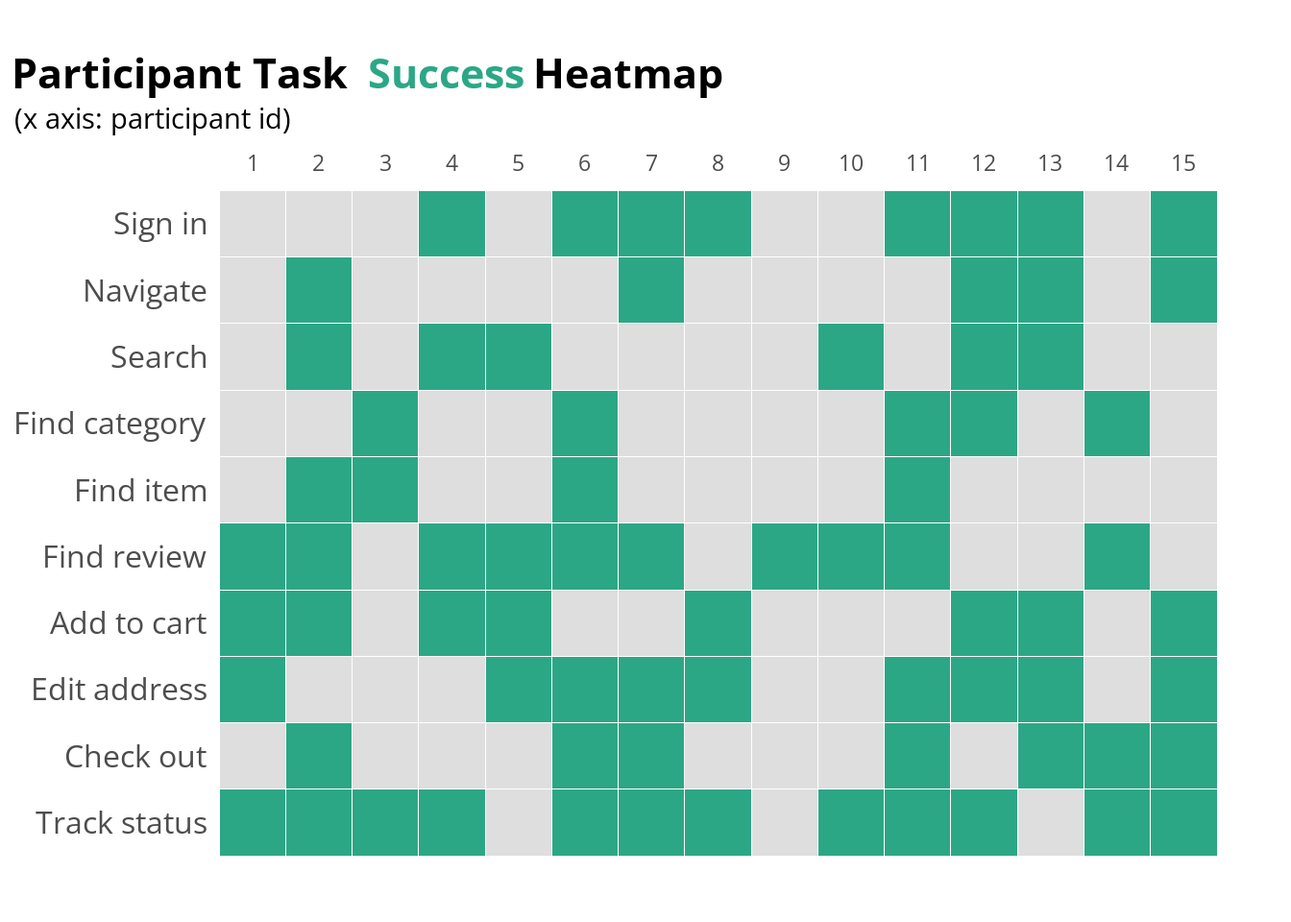
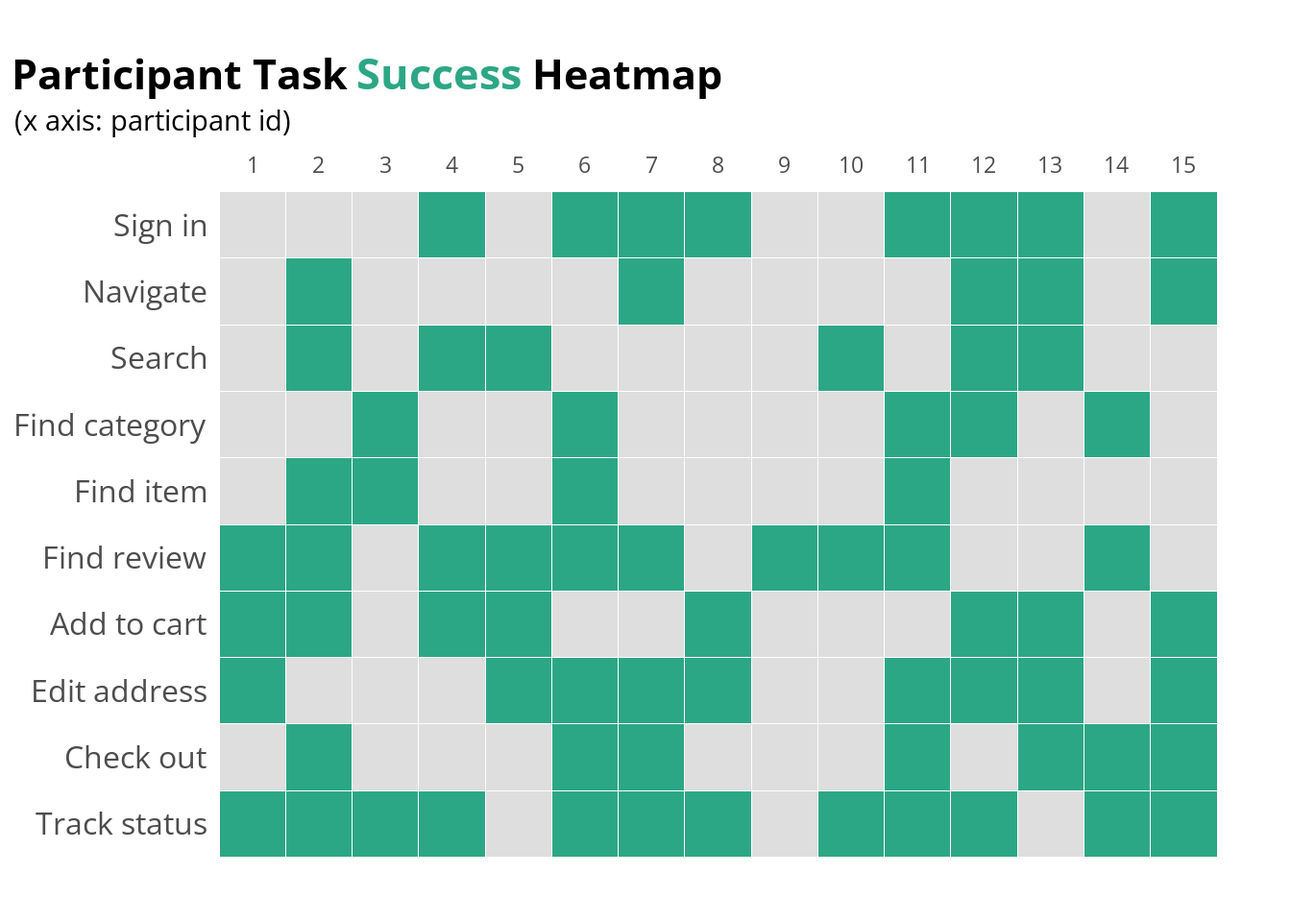
Built site for gh-pages

diff --git a/garden/ux/task-success-heatmap.html b/garden/ux/task-success-heatmap.html
@@ -216,7 +216,7 @@ pre > code.sourceCode > span > a:first-child::before { text-decoration: underlin
 <span id="cb2-34"><a href="#cb2-34" aria-hidden="true" tabindex="-1"></a>  <span class="fu">scale_x_discrete</span>(<span class="at">expand =</span> <span class="fu">expansion</span>(<span class="at">mult =</span> <span class="fu">c</span>(<span class="dv">0</span>, .<span class="dv">1</span>)), <span class="at">position =</span> <span class="st">"top"</span>) <span class="sc">+</span></span>
 <span id="cb2-35"><a href="#cb2-35" aria-hidden="true" tabindex="-1"></a>  <span class="fu">coord_fixed</span>(<span class="at">ratio=</span><span class="dv">1</span>) <span class="sc">+</span></span>
 <span id="cb2-36"><a href="#cb2-36" aria-hidden="true" tabindex="-1"></a>  <span class="fu">labs</span>(<span class="at">x =</span> <span class="cn">NULL</span>, <span class="at">y =</span> <span class="cn">NULL</span>, <span class="at">fill =</span> <span class="st">"Value"</span>,</span>
-<span id="cb2-37"><a href="#cb2-37" aria-hidden="true" tabindex="-1"></a>       <span class="at">title =</span> <span class="st">"&lt;b&gt;Participant Task &lt;span style = 'color: #2ca786;'&gt; Success&lt;/span&gt; Heatmap&lt;/b&gt;"</span>,</span>
+<span id="cb2-37"><a href="#cb2-37" aria-hidden="true" tabindex="-1"></a>       <span class="at">title =</span> <span class="st">"&lt;b&gt;Participant Task &lt;span style = 'color: #2ca786; font-size: 17pt'&gt;Success&lt;/span&gt; Heatmap&lt;/b&gt;"</span>,</span>
 <span id="cb2-38"><a href="#cb2-38" aria-hidden="true" tabindex="-1"></a>       <span class="at">subtitle =</span> <span class="st">"(x axis: participant id)"</span>) <span class="sc">+</span></span>
 <span id="cb2-39"><a href="#cb2-39" aria-hidden="true" tabindex="-1"></a>  <span class="fu">theme</span>(<span class="at">plot.title.position =</span> <span class="st">"plot"</span>,</span>
 <span id="cb2-40"><a href="#cb2-40" aria-hidden="true" tabindex="-1"></a>        <span class="at">plot.title =</span> <span class="fu">element_textbox_simple</span>(<span class="at">size =</span> <span class="dv">16</span>, <span class="at">lineheight =</span> <span class="dv">1</span>,</span>
@@ -231,32 +231,57 @@ pre > code.sourceCode > span > a:first-child::before { text-decoration: underlin
 </div>
 </div>
 <div class="cell">
-<div class="sourceCode cell-code" id="cb3"><pre class="sourceCode r code-with-copy"><code class="sourceCode r"><span id="cb3-1"><a href="#cb3-1" aria-hidden="true" tabindex="-1"></a>result <span class="ot">&lt;-</span> purrr<span class="sc">::</span><span class="fu">map_dfr</span>(<span class="fu">c</span>(<span class="dv">8</span>, <span class="dv">5</span>, <span class="dv">3</span>, <span class="dv">4</span>, <span class="dv">2</span>, <span class="dv">9</span>, <span class="dv">6</span>, <span class="dv">2</span>, <span class="dv">5</span>, <span class="dv">8</span>), <span class="cf">function</span>(count) <span class="fu">benchmark_event</span>(<span class="at">benchmark =</span> <span class="fl">0.75</span>, <span class="at">count =</span> count, <span class="at">total =</span> <span class="dv">10</span>, <span class="at">input =</span> <span class="st">"values"</span>, <span class="at">output =</span> <span class="st">"tibble"</span>))</span>
-<span id="cb3-2"><a href="#cb3-2" aria-hidden="true" tabindex="-1"></a></span>
-<span id="cb3-3"><a href="#cb3-3" aria-hidden="true" tabindex="-1"></a>result_df <span class="ot">&lt;-</span> result <span class="sc">|&gt;</span> <span class="fu">select</span>(count, total, benchmark, result) <span class="sc">|&gt;</span> </span>
-<span id="cb3-4"><a href="#cb3-4" aria-hidden="true" tabindex="-1"></a>  <span class="fu">mutate</span>(<span class="at">result =</span> <span class="fu">round</span>(result, <span class="dv">2</span>)) <span class="sc">|&gt;</span> <span class="fu">mutate</span>(<span class="at">result =</span> result<span class="sc">*</span><span class="dv">100</span>) <span class="sc">|&gt;</span> </span>
-<span id="cb3-5"><a href="#cb3-5" aria-hidden="true" tabindex="-1"></a>  <span class="fu">mutate</span>(<span class="at">result_percent =</span> scales<span class="sc">::</span><span class="fu">percent</span>(result))</span>
-<span id="cb3-6"><a href="#cb3-6" aria-hidden="true" tabindex="-1"></a></span>
-<span id="cb3-7"><a href="#cb3-7" aria-hidden="true" tabindex="-1"></a>result_df <span class="ot">&lt;-</span> result_df <span class="sc">|&gt;</span> tibble<span class="sc">::</span><span class="fu">rowid_to_column</span>(<span class="st">"task"</span>) <span class="sc">|&gt;</span> </span>
-<span id="cb3-8"><a href="#cb3-8" aria-hidden="true" tabindex="-1"></a>  <span class="fu">mutate</span>(<span class="at">task =</span> <span class="fu">fct_inorder</span>(<span class="fu">factor</span>(task))) </span>
-<span id="cb3-9"><a href="#cb3-9" aria-hidden="true" tabindex="-1"></a></span>
-<span id="cb3-10"><a href="#cb3-10" aria-hidden="true" tabindex="-1"></a>result_df <span class="sc">|&gt;</span> </span>
-<span id="cb3-11"><a href="#cb3-11" aria-hidden="true" tabindex="-1"></a>  <span class="fu">ggplot</span>(<span class="fu">aes</span>(<span class="at">x =</span> result, <span class="at">y =</span> <span class="fu">factor</span>(task))) <span class="sc">+</span></span>
-<span id="cb3-12"><a href="#cb3-12" aria-hidden="true" tabindex="-1"></a>  <span class="fu">geom_bar</span>(<span class="at">stat =</span> <span class="st">"identity"</span>, <span class="at">fill =</span> <span class="st">"steelblue"</span>) <span class="sc">+</span></span>
-<span id="cb3-13"><a href="#cb3-13" aria-hidden="true" tabindex="-1"></a>  <span class="fu">scale_x_continuous</span>(<span class="at">position =</span> <span class="st">"top"</span>, <span class="at">expand =</span> <span class="fu">expansion</span>(<span class="at">mult =</span> <span class="fu">c</span>(<span class="dv">0</span>, .<span class="dv">1</span>))) <span class="sc">+</span></span>
-<span id="cb3-14"><a href="#cb3-14" aria-hidden="true" tabindex="-1"></a>  <span class="fu">scale_y_discrete</span>(<span class="at">limits =</span> <span class="fu">rev</span>(<span class="fu">levels</span>(result_df<span class="sc">$</span>task))) <span class="sc">+</span></span>
-<span id="cb3-15"><a href="#cb3-15" aria-hidden="true" tabindex="-1"></a>  <span class="fu">theme</span>(<span class="at">axis.ticks.y =</span> <span class="fu">element_blank</span>(),</span>
-<span id="cb3-16"><a href="#cb3-16" aria-hidden="true" tabindex="-1"></a>        <span class="at">axis.ticks.x =</span> <span class="fu">element_line</span>(<span class="at">color =</span> <span class="st">"grey"</span>)) <span class="sc">+</span></span>
-<span id="cb3-17"><a href="#cb3-17" aria-hidden="true" tabindex="-1"></a>  <span class="fu">labs</span>(<span class="at">title =</span> <span class="st">"Probability (%) that the task success rate will exceed the benchmark"</span>,</span>
-<span id="cb3-18"><a href="#cb3-18" aria-hidden="true" tabindex="-1"></a>       <span class="at">x =</span> <span class="cn">NULL</span>,</span>
-<span id="cb3-19"><a href="#cb3-19" aria-hidden="true" tabindex="-1"></a>       <span class="at">y =</span> <span class="cn">NULL</span>) <span class="sc">+</span></span>
-<span id="cb3-20"><a href="#cb3-20" aria-hidden="true" tabindex="-1"></a>  <span class="fu">geom_text</span>(<span class="at">data =</span> result_df, </span>
-<span id="cb3-21"><a href="#cb3-21" aria-hidden="true" tabindex="-1"></a>            <span class="fu">aes</span>(<span class="at">label =</span> <span class="fu">ifelse</span>(result <span class="sc">==</span> <span class="dv">0</span>, <span class="st">"0"</span>, result), </span>
-<span id="cb3-22"><a href="#cb3-22" aria-hidden="true" tabindex="-1"></a>                <span class="at">hjust =</span> <span class="fu">ifelse</span>(result <span class="sc">==</span> <span class="dv">0</span>, <span class="sc">-</span><span class="fl">0.25</span>, <span class="fl">1.25</span>)), </span>
-<span id="cb3-23"><a href="#cb3-23" aria-hidden="true" tabindex="-1"></a>            <span class="at">color =</span> <span class="fu">with</span>(result_df, <span class="fu">ifelse</span>(result <span class="sc">==</span> <span class="dv">0</span>, <span class="st">"darkgrey"</span>, <span class="st">"white"</span>)), </span>
-<span id="cb3-24"><a href="#cb3-24" aria-hidden="true" tabindex="-1"></a>            <span class="at">size =</span> <span class="dv">5</span>)</span></code><button title="Copy to Clipboard" class="code-copy-button"><i class="bi"></i></button></pre></div>
+<div class="sourceCode cell-code" id="cb3"><pre class="sourceCode r code-with-copy"><code class="sourceCode r"><span id="cb3-1"><a href="#cb3-1" aria-hidden="true" tabindex="-1"></a><span class="fu">ggplot</span>(data_long, <span class="fu">aes</span>(<span class="at">x =</span> <span class="fu">factor</span>(participant), <span class="at">y =</span> action, <span class="at">fill =</span> <span class="fu">as.factor</span>(value))) <span class="sc">+</span></span>
+<span id="cb3-2"><a href="#cb3-2" aria-hidden="true" tabindex="-1"></a>  <span class="fu">geom_tile</span>(<span class="at">color =</span> <span class="st">"white"</span>) <span class="sc">+</span></span>
+<span id="cb3-3"><a href="#cb3-3" aria-hidden="true" tabindex="-1"></a>  <span class="fu">scale_fill_manual</span>(<span class="at">values =</span> <span class="fu">c</span>(<span class="st">"#BC412B"</span>, <span class="st">"#dedede"</span>)) <span class="sc">+</span></span>
+<span id="cb3-4"><a href="#cb3-4" aria-hidden="true" tabindex="-1"></a>  <span class="fu">theme</span>(<span class="at">panel.grid.minor =</span> <span class="fu">element_blank</span>(),</span>
+<span id="cb3-5"><a href="#cb3-5" aria-hidden="true" tabindex="-1"></a>        <span class="at">panel.grid.major =</span> <span class="fu">element_blank</span>(),</span>
+<span id="cb3-6"><a href="#cb3-6" aria-hidden="true" tabindex="-1"></a>        <span class="at">panel.background =</span> <span class="fu">element_blank</span>(),</span>
+<span id="cb3-7"><a href="#cb3-7" aria-hidden="true" tabindex="-1"></a>        <span class="at">axis.ticks =</span> <span class="fu">element_blank</span>()) <span class="sc">+</span> </span>
+<span id="cb3-8"><a href="#cb3-8" aria-hidden="true" tabindex="-1"></a>  <span class="fu">scale_x_discrete</span>(<span class="at">expand =</span> <span class="fu">expansion</span>(<span class="at">mult =</span> <span class="fu">c</span>(<span class="dv">0</span>, .<span class="dv">1</span>)), <span class="at">position =</span> <span class="st">"top"</span>) <span class="sc">+</span></span>
+<span id="cb3-9"><a href="#cb3-9" aria-hidden="true" tabindex="-1"></a>  <span class="fu">coord_fixed</span>(<span class="at">ratio=</span><span class="dv">1</span>) <span class="sc">+</span></span>
+<span id="cb3-10"><a href="#cb3-10" aria-hidden="true" tabindex="-1"></a>  <span class="fu">labs</span>(<span class="at">x =</span> <span class="cn">NULL</span>, <span class="at">y =</span> <span class="cn">NULL</span>, <span class="at">fill =</span> <span class="st">"Value"</span>,</span>
+<span id="cb3-11"><a href="#cb3-11" aria-hidden="true" tabindex="-1"></a>       <span class="at">title =</span> <span class="st">"&lt;b&gt;Participant Task &lt;span style = 'color: #BC412B; font-size: 17pt'&gt;Error&lt;/span&gt; Heatmap&lt;/b&gt;"</span>,</span>
+<span id="cb3-12"><a href="#cb3-12" aria-hidden="true" tabindex="-1"></a>       <span class="at">subtitle =</span> <span class="st">"(x axis: participant id)"</span>) <span class="sc">+</span></span>
+<span id="cb3-13"><a href="#cb3-13" aria-hidden="true" tabindex="-1"></a>  <span class="fu">theme</span>(<span class="at">plot.title.position =</span> <span class="st">"plot"</span>,</span>
+<span id="cb3-14"><a href="#cb3-14" aria-hidden="true" tabindex="-1"></a>        <span class="at">plot.title =</span> <span class="fu">element_textbox_simple</span>(<span class="at">size =</span> <span class="dv">16</span>, <span class="at">lineheight =</span> <span class="dv">1</span>,</span>
+<span id="cb3-15"><a href="#cb3-15" aria-hidden="true" tabindex="-1"></a>                                            <span class="at">padding =</span> <span class="fu">margin</span>(<span class="dv">0</span>),</span>
+<span id="cb3-16"><a href="#cb3-16" aria-hidden="true" tabindex="-1"></a>                                            <span class="at">margin =</span> <span class="fu">margin</span>(<span class="dv">0</span>, <span class="dv">0</span>, <span class="dv">4</span>, <span class="dv">0</span>))) <span class="sc">+</span> </span>
+<span id="cb3-17"><a href="#cb3-17" aria-hidden="true" tabindex="-1"></a></span>
+<span id="cb3-18"><a href="#cb3-18" aria-hidden="true" tabindex="-1"></a>  <span class="fu">theme</span>(<span class="at">legend.position =</span> <span class="st">"none"</span>) <span class="sc">+</span></span>
+<span id="cb3-19"><a href="#cb3-19" aria-hidden="true" tabindex="-1"></a>    <span class="fu">theme</span>(<span class="at">axis.text.y =</span> <span class="fu">element_text</span>(<span class="at">size =</span> <span class="dv">12</span>)) <span class="sc">+</span></span>
+<span id="cb3-20"><a href="#cb3-20" aria-hidden="true" tabindex="-1"></a>  <span class="fu">theme</span>(<span class="at">text =</span> <span class="fu">element_text</span>(<span class="at">family =</span> <span class="st">"Open Sans"</span>))</span></code><button title="Copy to Clipboard" class="code-copy-button"><i class="bi"></i></button></pre></div>
 <div class="cell-output-display">
 <p><img src="task-success-heatmap_files/figure-html/unnamed-chunk-3-1.png" class="img-fluid" width="672"></p>
+</div>
+</div>
+<div class="cell">
+<div class="sourceCode cell-code" id="cb4"><pre class="sourceCode r code-with-copy"><code class="sourceCode r"><span id="cb4-1"><a href="#cb4-1" aria-hidden="true" tabindex="-1"></a>result <span class="ot">&lt;-</span> purrr<span class="sc">::</span><span class="fu">map_dfr</span>(<span class="fu">c</span>(<span class="dv">8</span>, <span class="dv">5</span>, <span class="dv">3</span>, <span class="dv">4</span>, <span class="dv">2</span>, <span class="dv">9</span>, <span class="dv">6</span>, <span class="dv">2</span>, <span class="dv">5</span>, <span class="dv">8</span>), <span class="cf">function</span>(count) <span class="fu">benchmark_event</span>(<span class="at">benchmark =</span> <span class="fl">0.75</span>, <span class="at">count =</span> count, <span class="at">total =</span> <span class="dv">10</span>, <span class="at">input =</span> <span class="st">"values"</span>, <span class="at">output =</span> <span class="st">"tibble"</span>))</span>
+<span id="cb4-2"><a href="#cb4-2" aria-hidden="true" tabindex="-1"></a></span>
+<span id="cb4-3"><a href="#cb4-3" aria-hidden="true" tabindex="-1"></a>result_df <span class="ot">&lt;-</span> result <span class="sc">|&gt;</span> <span class="fu">select</span>(count, total, benchmark, result) <span class="sc">|&gt;</span> </span>
+<span id="cb4-4"><a href="#cb4-4" aria-hidden="true" tabindex="-1"></a>  <span class="fu">mutate</span>(<span class="at">result =</span> <span class="fu">round</span>(result, <span class="dv">2</span>)) <span class="sc">|&gt;</span> <span class="fu">mutate</span>(<span class="at">result =</span> result<span class="sc">*</span><span class="dv">100</span>) <span class="sc">|&gt;</span> </span>
+<span id="cb4-5"><a href="#cb4-5" aria-hidden="true" tabindex="-1"></a>  <span class="fu">mutate</span>(<span class="at">result_percent =</span> scales<span class="sc">::</span><span class="fu">percent</span>(result))</span>
+<span id="cb4-6"><a href="#cb4-6" aria-hidden="true" tabindex="-1"></a></span>
+<span id="cb4-7"><a href="#cb4-7" aria-hidden="true" tabindex="-1"></a>result_df <span class="ot">&lt;-</span> result_df <span class="sc">|&gt;</span> tibble<span class="sc">::</span><span class="fu">rowid_to_column</span>(<span class="st">"task"</span>) <span class="sc">|&gt;</span> </span>
+<span id="cb4-8"><a href="#cb4-8" aria-hidden="true" tabindex="-1"></a>  <span class="fu">mutate</span>(<span class="at">task =</span> <span class="fu">fct_inorder</span>(<span class="fu">factor</span>(task))) </span>
+<span id="cb4-9"><a href="#cb4-9" aria-hidden="true" tabindex="-1"></a></span>
+<span id="cb4-10"><a href="#cb4-10" aria-hidden="true" tabindex="-1"></a>result_df <span class="sc">|&gt;</span> </span>
+<span id="cb4-11"><a href="#cb4-11" aria-hidden="true" tabindex="-1"></a>  <span class="fu">ggplot</span>(<span class="fu">aes</span>(<span class="at">x =</span> result, <span class="at">y =</span> <span class="fu">factor</span>(task))) <span class="sc">+</span></span>
+<span id="cb4-12"><a href="#cb4-12" aria-hidden="true" tabindex="-1"></a>  <span class="fu">geom_bar</span>(<span class="at">stat =</span> <span class="st">"identity"</span>, <span class="at">fill =</span> <span class="st">"steelblue"</span>) <span class="sc">+</span></span>
+<span id="cb4-13"><a href="#cb4-13" aria-hidden="true" tabindex="-1"></a>  <span class="fu">scale_x_continuous</span>(<span class="at">position =</span> <span class="st">"top"</span>, <span class="at">expand =</span> <span class="fu">expansion</span>(<span class="at">mult =</span> <span class="fu">c</span>(<span class="dv">0</span>, .<span class="dv">1</span>))) <span class="sc">+</span></span>
+<span id="cb4-14"><a href="#cb4-14" aria-hidden="true" tabindex="-1"></a>  <span class="fu">scale_y_discrete</span>(<span class="at">limits =</span> <span class="fu">rev</span>(<span class="fu">levels</span>(result_df<span class="sc">$</span>task))) <span class="sc">+</span></span>
+<span id="cb4-15"><a href="#cb4-15" aria-hidden="true" tabindex="-1"></a>  <span class="fu">theme</span>(<span class="at">axis.ticks.y =</span> <span class="fu">element_blank</span>(),</span>
+<span id="cb4-16"><a href="#cb4-16" aria-hidden="true" tabindex="-1"></a>        <span class="at">axis.ticks.x =</span> <span class="fu">element_line</span>(<span class="at">color =</span> <span class="st">"grey"</span>)) <span class="sc">+</span></span>
+<span id="cb4-17"><a href="#cb4-17" aria-hidden="true" tabindex="-1"></a>  <span class="fu">labs</span>(<span class="at">title =</span> <span class="st">"Probability (%) that the task success rate will exceed the benchmark"</span>,</span>
+<span id="cb4-18"><a href="#cb4-18" aria-hidden="true" tabindex="-1"></a>       <span class="at">x =</span> <span class="cn">NULL</span>,</span>
+<span id="cb4-19"><a href="#cb4-19" aria-hidden="true" tabindex="-1"></a>       <span class="at">y =</span> <span class="cn">NULL</span>) <span class="sc">+</span></span>
+<span id="cb4-20"><a href="#cb4-20" aria-hidden="true" tabindex="-1"></a>  <span class="fu">geom_text</span>(<span class="at">data =</span> result_df, </span>
+<span id="cb4-21"><a href="#cb4-21" aria-hidden="true" tabindex="-1"></a>            <span class="fu">aes</span>(<span class="at">label =</span> <span class="fu">ifelse</span>(result <span class="sc">==</span> <span class="dv">0</span>, <span class="st">"0"</span>, result), </span>
+<span id="cb4-22"><a href="#cb4-22" aria-hidden="true" tabindex="-1"></a>                <span class="at">hjust =</span> <span class="fu">ifelse</span>(result <span class="sc">==</span> <span class="dv">0</span>, <span class="sc">-</span><span class="fl">0.25</span>, <span class="fl">1.25</span>)), </span>
+<span id="cb4-23"><a href="#cb4-23" aria-hidden="true" tabindex="-1"></a>            <span class="at">color =</span> <span class="fu">with</span>(result_df, <span class="fu">ifelse</span>(result <span class="sc">==</span> <span class="dv">0</span>, <span class="st">"darkgrey"</span>, <span class="st">"white"</span>)), </span>
+<span id="cb4-24"><a href="#cb4-24" aria-hidden="true" tabindex="-1"></a>            <span class="at">size =</span> <span class="dv">5</span>)</span></code><button title="Copy to Clipboard" class="code-copy-button"><i class="bi"></i></button></pre></div>
+<div class="cell-output-display">
+<p><img src="task-success-heatmap_files/figure-html/unnamed-chunk-4-1.png" class="img-fluid" width="672"></p>
 </div>
 </div>
 

diff --git a/book/chapter-1/demo/index.html b/book/chapter-1/demo/index.html
@@ -398,7 +398,7 @@
   <link href="../../../site_libs/rstudio_leaflet-1.3.1/rstudio_leaflet.css" rel="stylesheet">
   <script src="../../../site_libs/leaflet-binding-2.1.1/leaflet.js"></script>
   <script type="ojs-define">
-  {"contents":[{"name":"actors","value":{"x":[-0.4406,0.0538,-0.7131,-0.1559,-0.2466,0.1053,1.491,0.1384,-0.6205,0.3459,-0.7932,1.1301,0.2724,-0.4731,2.0555,0.3323,-0.763,-0.0652,0.0588,1.8527,0.887,-0.1455,0.781,0.5377,0.5681,-0.8139,0.1989,-0.9791,-0.9416,0.2284,0.1063,1.7775,-0.1137,-0.1807,0.5361,-0.5695,0.1852,-0.923,-0.3444,-0.8797,-0.6221,-0.0062,-0.2429,-1.9166,0.472,0.8355,0.3838,-0.545,1.2437,0.224,0.0511,1.1218,0.988,-0.4998,-2.6191,1.0928,-1.3239,1.4754,0.497,-1.8114,0.1058,-0.6881,-0.1947,1.3616,1.1309,-0.2682,-0.5871,0.4883,-0.3637,-2.0899,0.4153,-0.6615,-1.8597,1.704,0.2595,-0.4773,0.844,-0.303,2.7724,1.8665,0.1319,-0.8144,-0.1592,-0.0537,0.2093,0.8985,0.1473,1.3539,0.3077,-0.2501,0.5462,-0.6625,-0.761,0.5626,0.7779,-0.5124,2.7093,0.3213,-1.1241,0.8665],"y":[0.8525,0.0975,2.4649,-0.1003,0.2581,0.9384,0.2007,-1.339,0.2014,0.6123,-0.1048,0.8399,-1.1816,0.9583,-2.1091,1.4288,0.0881,-0.5461,-1.7503,-0.0337,-1.6454,1.3694,0.1619,0.2834,-1.7743,0.9101,1.0125,-0.6538,-0.034,0.8349,0.5707,-0.6368,-0.3429,-0.8529,0.2615,0.7401,-0.7293,-0.4371,-1.0784,-0.8245,0.0176,-0.3984,-0.2082,-0.0298,-1.4755,-1.6228,0.2924,1.244,0.2171,-0.9878,-0.6037,0.0624,0.0835,0.7483,0.4119,0.8494,-2.8354,0.8634,-0.1083,-0.6523,0.7805,2.6338,-1.6325,0.213,0.1998,1.0525,-1.1955,-0.5158,-1.752,-0.1096,-0.9763,0.7838,-0.1893,-0.1201,1.0333,-0.2928,0.9502,0.911,1.4344,0.1339,-0.6519,1.5246,-1.2686,0.7211,-1.2202,-1.0576,0.0941,0.4131,-0.4485,0.8491,0.2459,0.7299,0.3265,-0.9209,-1.1517,-0.2636,-0.4741,1.9878,0.9653,-0.2524]}}]}
+  {"contents":[{"name":"actors","value":{"x":[-0.1108,-0.2086,0.6936,-0.6965,-1.1582,1.1695,0.2547,-0.1876,-0.8056,-1.4145,-0.5504,-0.2771,-0.8995,-0.9847,0.1501,0.4779,0.0153,1.166,-1.1937,0.088,0.3842,-1.0517,-0.9822,1.076,0.0795,2.2751,1.0199,0.3953,0.0178,-0.0541,2.5635,1.1623,0.4359,0.5237,-0.7538,-2.1284,-0.4287,0.563,-1.5385,-0.7341,0.5299,-0.5933,-1.8682,-0.9063,1.3814,2.178,0.6818,0.6609,0.1524,-0.1835,1.9133,0.0974,-0.8079,-1.8,-1.4223,1.6312,1.6513,0.4086,1.7907,0.7478,-0.9893,0.0148,0.4442,-0.3108,0.1522,0.826,-0.6706,-0.9294,0.2024,-2.2136,-0.145,-1.4868,1.4583,0.2866,-1.005,2.6919,0.9014,-1.2865,-1.0985,1.7153,0.4545,-0.497,-1.2383,-0.7927,0.1335,1.0597,0.764,-0.5788,0.5138,-0.1087,1.3841,0.7557,-0.6603,-0.331,-0.4088,-1.2435,-0.5311,-1.6664,-0.6729,0.2462],"y":[-0.251,0.4975,-1.359,-0.4992,-1.0319,-0.2397,0.2058,-1.3475,-0.2435,0.7931,0.0621,-1.0105,-0.7485,0.263,0.836,0.6463,0.9998,-0.942,1.8883,0.7245,0.3973,-0.7737,-1.5388,-0.9388,0.5886,0.5913,-0.9749,-0.6558,0.3153,-1.1695,-0.3779,-1.5274,0.788,-0.9314,0.1495,1.2864,0.3327,0.2524,0.7751,-2.2454,1.5144,1.1645,-1.8126,-0.8763,-1.6854,0.1697,0.7369,-1.8874,0.9272,-0.7416,0.4447,-0.0596,-2.2133,0.8547,0.9155,-1.2998,-1.1022,-1.7162,1.0343,-0.0496,0.3404,1.7777,-1.975,0.8848,-1.0093,0.3717,-1.9763,1.2127,0.6375,-0.4919,1.6401,1.404,1.6634,-1.1233,-1.2998,1.3078,-0.0751,-0.5018,-1.0095,1.3537,0.1409,-0.2237,-0.0867,0.6159,-0.0579,0.5736,-0.2063,-1.4981,0.5287,-2.6956,0.2272,-0.1587,0.5938,-0.7462,-0.96,-1.6523,0.1776,0.3649,0.7164,0.367]}}]}
   </script>
 </head>
 <body class="quarto-light">
@@ -1280,8 +1280,8 @@ a_{21}&amp; =b_{21}&amp;
 <p>Include Jupyter widgets and htmlwidgets in your presentations</p>
 <div class="cell">
 <div class="cell-output-display">
-<div class="leaflet html-widget html-fill-item-overflow-hidden html-fill-item" id="htmlwidget-76f977408262404f5263" style="width:960px;height:480px;"></div>
-<script type="application/json" data-for="htmlwidget-76f977408262404f5263">{"x":{"options":{"crs":{"crsClass":"L.CRS.EPSG3857","code":null,"proj4def":null,"projectedBounds":null,"options":{}}},"calls":[{"method":"addTiles","args":["https://{s}.tile.openstreetmap.org/{z}/{x}/{y}.png",null,null,{"minZoom":0,"maxZoom":18,"tileSize":256,"subdomains":"abc","errorTileUrl":"","tms":false,"noWrap":false,"zoomOffset":0,"zoomReverse":false,"opacity":1,"zIndex":1,"detectRetina":false,"attribution":"&copy; <a href=\"https://openstreetmap.org\">OpenStreetMap<\/a> contributors, <a href=\"https://creativecommons.org/licenses/by-sa/2.0/\">CC-BY-SA<\/a>"}]},{"method":"addMarkers","args":[-36.852,174.768,null,null,null,{"interactive":true,"draggable":false,"keyboard":true,"title":"","alt":"","zIndexOffset":0,"opacity":1,"riseOnHover":false,"riseOffset":250},"The birthplace of R",null,null,null,null,{"interactive":false,"permanent":false,"direction":"auto","opacity":1,"offset":[0,0],"textsize":"10px","textOnly":false,"className":"","sticky":true},null]}],"limits":{"lat":[-36.852,-36.852],"lng":[174.768,174.768]}},"evals":[],"jsHooks":[]}</script>
+<div class="leaflet html-widget html-fill-item-overflow-hidden html-fill-item" id="htmlwidget-21e6729d957433851557" style="width:960px;height:480px;"></div>
+<script type="application/json" data-for="htmlwidget-21e6729d957433851557">{"x":{"options":{"crs":{"crsClass":"L.CRS.EPSG3857","code":null,"proj4def":null,"projectedBounds":null,"options":{}}},"calls":[{"method":"addTiles","args":["https://{s}.tile.openstreetmap.org/{z}/{x}/{y}.png",null,null,{"minZoom":0,"maxZoom":18,"tileSize":256,"subdomains":"abc","errorTileUrl":"","tms":false,"noWrap":false,"zoomOffset":0,"zoomReverse":false,"opacity":1,"zIndex":1,"detectRetina":false,"attribution":"&copy; <a href=\"https://openstreetmap.org\">OpenStreetMap<\/a> contributors, <a href=\"https://creativecommons.org/licenses/by-sa/2.0/\">CC-BY-SA<\/a>"}]},{"method":"addMarkers","args":[-36.852,174.768,null,null,null,{"interactive":true,"draggable":false,"keyboard":true,"title":"","alt":"","zIndexOffset":0,"opacity":1,"riseOnHover":false,"riseOffset":250},"The birthplace of R",null,null,null,null,{"interactive":false,"permanent":false,"direction":"auto","opacity":1,"offset":[0,0],"textsize":"10px","textOnly":false,"className":"","sticky":true},null]}],"limits":{"lat":[-36.852,-36.852],"lng":[174.768,174.768]}},"evals":[],"jsHooks":[]}</script>
 </div>
 </div>
 <div class="footer">

diff --git a/garden.html b/garden.html
@@ -285,7 +285,7 @@ ul.task-list li input[type="checkbox"] {
 <span class="listing-author"></span>
 </td>
 </tr>
-<tr data-index="10" data-listing-file-modified-sort="1685987639554" data-listing-reading-time-sort="4" data-listing-title-sort="Task Success Heatmap" data-listing-filename-sort="task-success-heatmap.qmd">
+<tr data-index="10" data-listing-file-modified-sort="1685988152946" data-listing-reading-time-sort="5" data-listing-title-sort="Task Success Heatmap" data-listing-filename-sort="task-success-heatmap.qmd">
 <td>
 <a href="./garden/ux/task-success-heatmap.html" class="title listing-title">Task Success Heatmap</a>
 </td>
